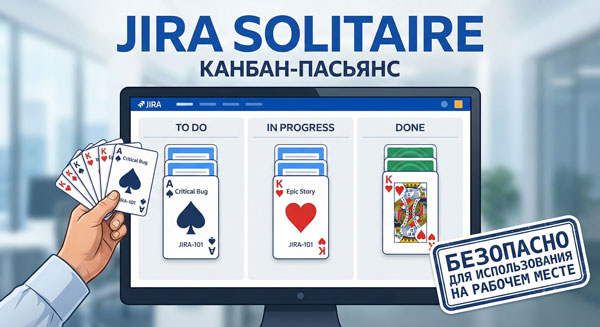
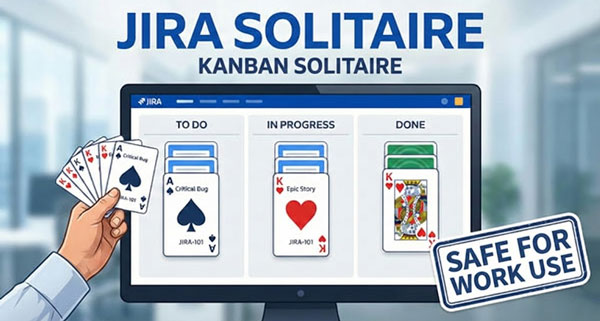
feat: update index.html to change language and improve Open Graph metadata

diff --git a/jira/index.html b/jira/index.html
@@ -1,12 +1,12 @@
 <!DOCTYPE html>
-<html lang="ru">
+<html lang="en">
 <head>
     <meta charset="UTF-8">
     <meta name="viewport" content="width=device-width, initial-scale=1.0">
     
     <!-- Open Graph Tags -->
-    <meta property="og:title" content="Jira Solitaire: Канбан-пасьянс">
-    <meta property="og:description" content="Единственный спринт, который реально закрыть вовремя. Перетаскивай тикеты, имитируй бурную деятельность. Начальство оценит.">
+    <meta property="og:title" content="Jira Solitaire: Kanban Solitaire">
+    <meta property="og:description" content="The only sprint you can actually finish on time. Drag tickets, fake busywork. Management will appreciate it.">
     <meta property="og:image" content="https://gritsenko.biz/jira/cover.jpg">
     <meta property="og:url" content="https://gritsenko.biz/jira/">
     <meta property="og:type" content="website">
